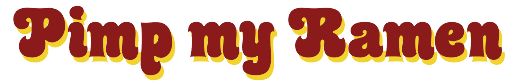
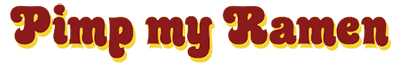
Fix header for smartphone

diff --git a/templates/site.html b/templates/site.html
@@ -14,32 +14,36 @@
 </head>
 <body>
 
-    <header>
+    <header class="header-large">
       <div class="masthead clearfix">
-        <div class="pull-left hidden-xs"><img src="static/images/bowl.png" style="padding: 1.25em 0.75em 0.5em 0.5em;"/></div>
+        <div class="pull-left"><img src="static/images/bowl.png" style="padding: 1.25em 0.75em 0.5em 0.5em;" class="img-responsive"/></div>
         <div class="pull-left">
-          <h1><img src="static/images/pmr2.png" class="img-responsive"/></h1>
+          <h1><img src="static/images/pmr2.png" class="img-responsive" alt="Pimp My Ramen"/></h1>
           <p class="subtitle text-center">Creative ways to dress up ramen</p>
         </div>
-        <div class="pull-left hidden-xs"><img src="static/images/maneki.gif" style="height: 145px; padding: .5em;"/></div>
+        <div class="pull-left"><img src="static/images/maneki.gif" style="height: 145px; padding: .5em;" class="img-responsive"/></div>
       </div>
     </header>
+
+    <header class="header-small">
+        <img src="static/images/pmr-sm.png" alt="Pimp My Ramen" class="img-responsive"/>
+    </header>    
 
     <nav>
       <div class="container">
         <div class="row">
-          <div class="col-xs-5">
+          <div class="col-xs-7 col-sm-4">
             <div class="input-group">
-              <input type="text" class="form-control">
+              <input type="text" class="form-control input-sm" placeholder="Search">
               <span class="input-group-btn">
-                <button class="btn btn-default" type="button"><span class="glyphicon glyphicon-search"></span></button>
+                <button class="btn btn-default btn-sm" type="button"><span class="glyphicon glyphicon-search"></span></button>
               </span>
             </div><!-- /input-group -->
           </div><!-- /.col-sm-4 -->
-          <div class="col-xs-4">
+          <div class="col-xs-2 col-sm-5">
           </div>
-          <div class="col-xs-3 clearfix">
-            <button class="btn btn-primary pull-right" data-toggle="modal" data-target="#uploadModal">Upload...</button>
+          <div class="col-xs-3 col-sm-3 clearfix">
+            <button class="btn btn-primary btn-sm pull-right" data-toggle="modal" data-target="#uploadModal">Upload</button>
           </div>
         </div><!-- /.row -->      
       </div>

diff --git a/templates/list.html b/templates/list.html
@@ -5,36 +5,45 @@
 <div class="container" id="main">
 	<ul class="list-inline" id="posts">
 		<li class="post">
-			<img src= '{{ url }}' style="width: 225px; height: 225px;"></img>
-			<h4>Ramen One</h4>
+			<img src= '{{ url }}' style="width: 230px; height: 200px;"></img>
+			<h5>Ramen One</h5>
+			<p class="description">spicy, cayenne, broccoli, green onion, egg</p>
 		</li>
 		<li class="post">
-			<img src="http://placehold.it/225x225"/>
-			<h4>Ramen Two</h4>
+			<img src="http://placehold.it/230x200"/>
+			<h5>Ramen Two</h5>
+			<p class="description">&nbsp;</p>
 		</li>
 		<li class="post">
-			<img src="http://placehold.it/225x225"/>
-			<h4>Ramen Three</h4>
+			<img src="http://placehold.it/230x200"/>
+			<h5>Ramen Three</h5>
+			<p class="description">&nbsp;</p>
+
 		</li>
 		<li class="post">
-			<img src="http://placehold.it/225x225"/>
-			<h4>Ramen Four</h4>
+			<img src="http://placehold.it/230x200"/>
+			<h5>Ramen Four</h5>
+			<p class="description">&nbsp;</p>			
 		</li>
 		<li class="post">
-			<img src="http://placehold.it/225x225"/>
-			<h4>Ramen Five</h4>
+			<img src="http://placehold.it/230x200"/>
+			<h5>Ramen Five</h5>
+			<p class="description">&nbsp;</p>			
 		</li>
 		<li class="post">
-			<img src="http://placehold.it/225x225"/>
-			<h4>Ramen Six</h4>
+			<img src="http://placehold.it/230x200"/>
+			<h5>Ramen Six</h5>
+			<p class="description">&nbsp;</p>			
 		</li>
 		<li class="post">
-			<img src="http://placehold.it/225x225"/>
-			<h4>Ramen Seven</h4>
+			<img src="http://placehold.it/230x200"/>
+			<h5>Ramen Seven</h5>
+			<p class="description">&nbsp;</p>
 		</li>
 		<li class="post">
-			<img src="http://placehold.it/225x225"/>
-			<h4>Ramen Eight</h4>
+			<img src="http://placehold.it/230x200"/>
+			<h5>Ramen Eight</h5>
+			<p class="description">&nbsp;</p>			
 		</li>																
 	</ul>
 </div>

diff --git a/static/css/pmr.css b/static/css/pmr.css
@@ -3,10 +3,35 @@ body {
 	background-color: #EEE;
 }
 
-header {
-	background: #f6ebb8 url(../images/header-bg.png);
-	height: 11em;
-	position: relative;
+@media screen and (min-width: 687px) {
+	.header-large{
+		background: #f6ebb8 url(../images/header-bg.png);
+		height: 11em;
+		position: relative;
+	}
+
+	.header-small {
+		display: none;
+	}
+
+}
+
+@media screen and (max-width: 686px) {
+
+	.header-large {
+		display: none;
+	}
+
+	.header-small{
+		background: #f6ebb8 url(../images/header-bg.png);
+		height: 3em;	
+	}
+
+	.header-small img {
+		margin: 0 auto;
+		padding: 0.5em;
+	}
+
 }
 
 .masthead {
@@ -43,14 +68,31 @@ nav {
 }
 
 #posts {
-	margin: 1.5em auto;
+	margin: 0 auto;
 }
 
-.post {
-	background-color: #fff;
-	padding: 0.5em;
-	border-radius:5px;
-	margin: 1.25em;
+li.post {
+	padding: 0;
+	margin: 1.5em;
+	box-shadow: 1px 1px 5px rgba(0,0,0,0.1);
+	width: 230px;
+	vertical-align: top;	
+}
+
+li.post h5 {
+	color: #c7b673;
+	text-align:left;
+	text-shadow: 1px 1px 0px rgba(255, 255, 255, 0.4);
+	margin: 0.5em;	
+}
+
+p.description {
+	color: #666;
+	font-size: 0.78571em; /*About 11px*/
+	font-style:italic;
+	margin: 0.5em;
+	text-align: left;
+	height:3.5em;
 }
 
 footer {
